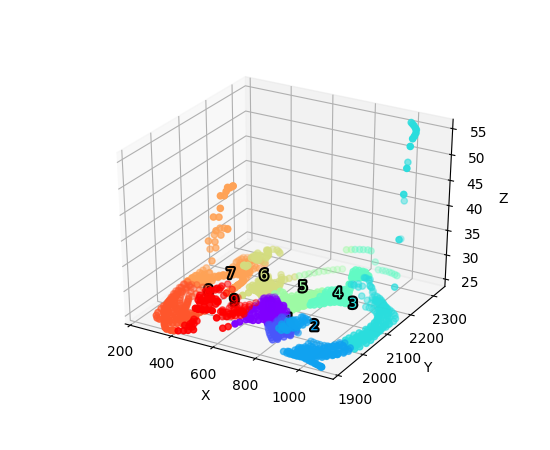
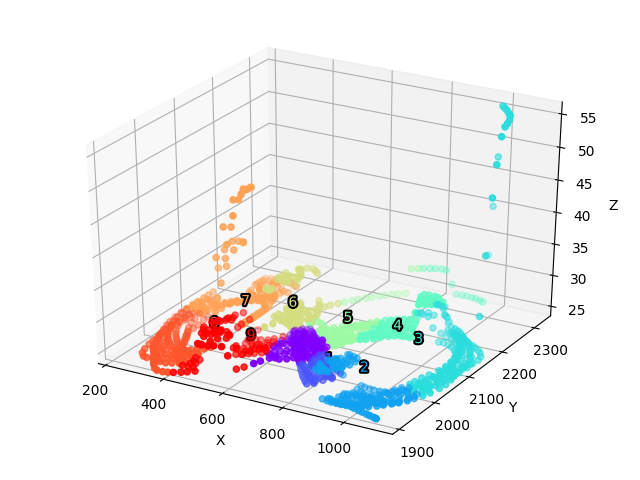
3.4: updated trajectories

diff --git a/project_3/task3.4/task3.4.py b/project_3/task3.4/task3.4.py
@@ -17,7 +17,7 @@ logger = logging.getLogger('Logger from Task 2.2')
 
 
 
-SHOW_PLOTS = True
+SHOW_PLOTS = False
 N_CLUSTERS = [10, 60]
 
 
@@ -138,7 +138,7 @@ def computeTrajectory(iterations, x, neurons, kmean, joint):
 def plot_clusters(data, clusters_map, centers, plot_name='3dplot.png'):
     global SHOW_PLOTS
     fig = plt.figure()
-    fig.set_size_inches(5.5, 4.5)
+    # fig.set_size_inches(5.5, 4.5)
     ax = fig.add_subplot(111, projection='3d')
     join_data_cluster = np.append(data, clusters_map, axis=1)
 
@@ -159,6 +159,7 @@ def plot_clusters(data, clusters_map, centers, plot_name='3dplot.png'):
     ax.set_xlabel('X')
     ax.set_ylabel('Y')
     ax.set_zlabel('Z')
+    plt.tight_layout()
     file_path = plot_name
     plt.savefig(file_path, facecolor='w', edgecolor='w',
                 papertype=None, format='png', transparent=False,
@@ -167,16 +168,24 @@ def plot_clusters(data, clusters_map, centers, plot_name='3dplot.png'):
         plt.show()
 
 
-def plot_trajectory(trajectory, plot_name):
+def plot_trajectory(trajectory, origin, plot_name, plot_origin=False):
     global SHOW_PLOTS
     x = np.append([], trajectory[:, 0])
     y = np.append([], trajectory[:, 1])
     z = np.append([], trajectory[:, 2])
     fig = plt.figure()
+
     ax = fig.gca(projection='3d')
     ax.plot(x, y, z, label='trajectory')
     ax.plot([x[0]], y[0], z[0], marker='o', color='red')
     ax.plot([x[-1]], y[-1], z[-1], marker='o', color='green')
+    if plot_origin:
+        ax.plot(origin[:, 0], origin[:, 1], origin[:, 2],
+            label='original trajectory', color='orange', alpha=0.6)
+        ax.plot([origin[0, 0]], origin[0, 1], origin[0, 2], marker='o', color='darkviolet')
+        ax.plot([origin[-1, 0]], origin[-1, 1], origin[-1, 2], marker='o', color='black')
+
+    plt.tight_layout()
     file_path = plot_name
     plt.savefig(file_path, facecolor='w', edgecolor='w',
                 papertype=None, format='png', transparent=False,
@@ -185,7 +194,8 @@ def plot_trajectory(trajectory, plot_name):
         plt.show()
 
 
-def analyze(path, user_state_file, neurons_state_file, n_clusters, iterations):
+def analyze(path, user_state_file, neurons_state_file, n_clusters, iterations,
+            plot_origin=False):
     logger.info('\nPATH=%s\nStart analysis with:'
                 '\nn_clusters=%s'
                 '\niterations=%s'
@@ -223,48 +233,51 @@ def analyze(path, user_state_file, neurons_state_file, n_clusters, iterations):
     kmean_plot_file = _get_plots_name(KMEAN_PLOT_FILE)
     trajectory_plot_file = _get_plots_name(TRAJECTORY_PLOT_FILE)
 
-    # plot_clusters(activities, clustered_matrix_a, kmean.cluster_centers_, kmean_plot_file)
-    # plot_clusters(x, clustered_matrix_x, neurons, som_plot_file)
+    plot_clusters(activities, clustered_matrix_a, kmean.cluster_centers_, kmean_plot_file)
+    plot_clusters(x, clustered_matrix_x, neurons, som_plot_file)
 
     joint = jointProbabilities(x, activities, neurons, kmean)#, clustered_matrix_x, clustered_matrix_a)
     print joint.round(2)
     trajectory = computeTrajectory(200, x, neurons, kmean, joint)
-    plot_trajectory(trajectory, trajectory_plot_file)
+    plot_trajectory(trajectory, x, trajectory_plot_file, plot_origin)
     logger.info('Analysis is done!')
 
 
 if __name__ == '__main__':
-    # # ANALYSIS FOR PATH 1
-    # analyze(PATHS.path1, USER_STATE_FILE,
-    #         NEURONS_FILE.n10,
-    #         N_CLUSTERS.n10,
-    #         ITERATIONS.n10000)
+    # ANALYSIS FOR PATH 1
+    analyze(PATHS.path1, USER_STATE_FILE,
+            NEURONS_FILE.n10,
+            N_CLUSTERS.n10,
+            ITERATIONS.n10000,
+            plot_origin=False)
     
-    # analyze(PATHS.path1, USER_STATE_FILE,
-    #         NEURONS_FILE.n10,
-    #         N_CLUSTERS.n60,
-    #         ITERATIONS.n10000)
+    analyze(PATHS.path1, USER_STATE_FILE,
+            NEURONS_FILE.n10,
+            N_CLUSTERS.n60,
+            ITERATIONS.n10000)
     
     analyze(PATHS.path1, USER_STATE_FILE,
             NEURONS_FILE.n60,
             N_CLUSTERS.n60,
-            ITERATIONS.n10000)
+            ITERATIONS.n10000,
+            plot_origin=True)
 
     # ANALYSIS FOR PATH 2
 
-    # analyze(PATHS.path2, USER_STATE_FILE,
-    #         NEURONS_FILE.n10,
-    #         N_CLUSTERS.n10,
-    #         ITERATIONS.n10000)
+    analyze(PATHS.path2, USER_STATE_FILE,
+            NEURONS_FILE.n10,
+            N_CLUSTERS.n10,
+            ITERATIONS.n10000)
 
-    # analyze(PATHS.path2, USER_STATE_FILE,
-    #         NEURONS_FILE.n10,
-    #         N_CLUSTERS.n60,
-    #         ITERATIONS.n10000)
+    analyze(PATHS.path2, USER_STATE_FILE,
+            NEURONS_FILE.n10,
+            N_CLUSTERS.n60,
+            ITERATIONS.n10000)
 
-    # analyze(PATHS.path2, USER_STATE_FILE,
-    #         NEURONS_FILE.n60,
-    #         N_CLUSTERS.n60,
-    #         ITERATIONS.n10000)
+    analyze(PATHS.path2, USER_STATE_FILE,
+            NEURONS_FILE.n60,
+            N_CLUSTERS.n60,
+            ITERATIONS.n10000,
+            plot_origin=True)
 
 
